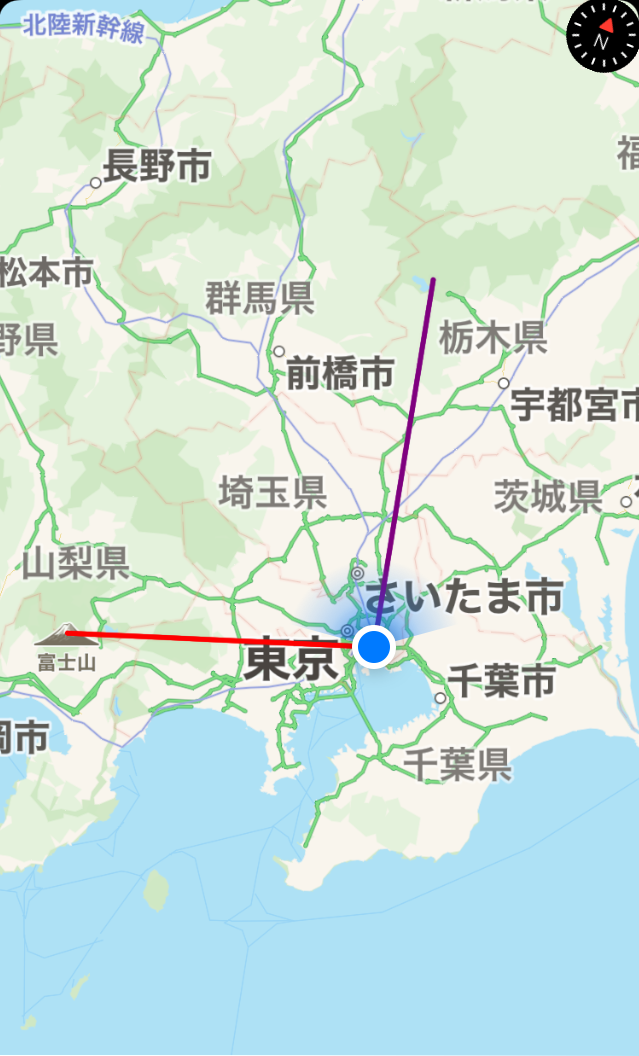
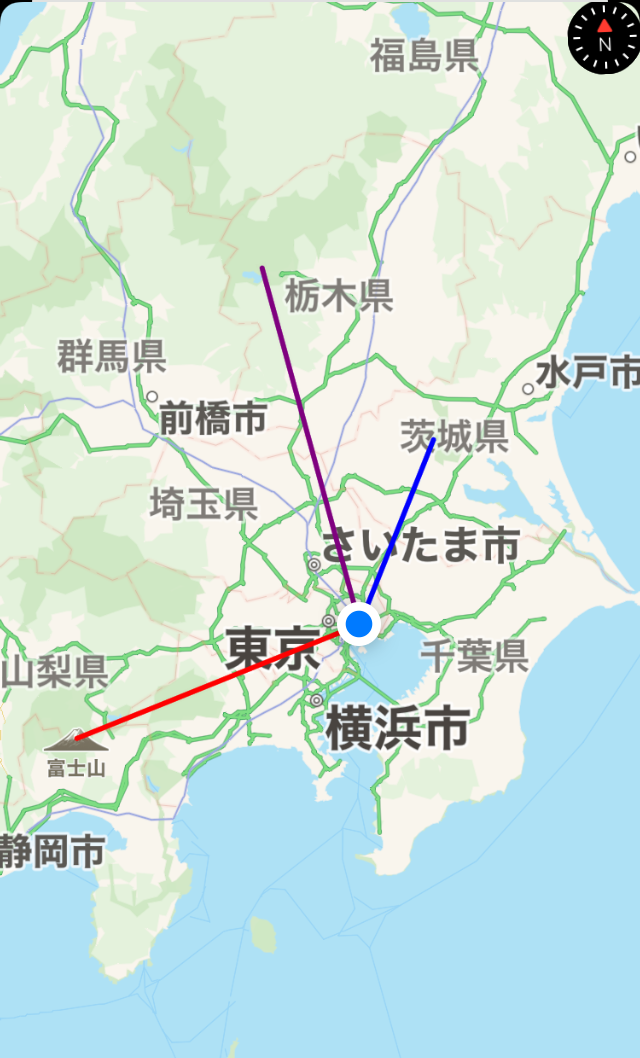
0914  1  地域を選び直すことができる
地域をまたがっても、選択でき、線が引ける。

diff --git a/Where/SettingViewController.swift b/Where/SettingViewController.swift
@@ -61,8 +61,8 @@ class SettingViewController: ViewController, UIPickerViewDelegate, UIPickerViewD
         // 「目的地選択」ボタンを表示して有効化する
         selectMtButton.isHidden = false // 「目的地選択」ボタンを表示する
         selectMtButton.isEnabled = true // 有効にする
-        selectAreaButton.isHidden = true // 「地域選択」ボタンを隠す
-        selectAreaButton.isEnabled = false // 無効にする
+//        selectAreaButton.isHidden = true // 「地域選択」ボタンを隠す
+//        selectAreaButton.isEnabled = false // 無効にする
         
     }
     
